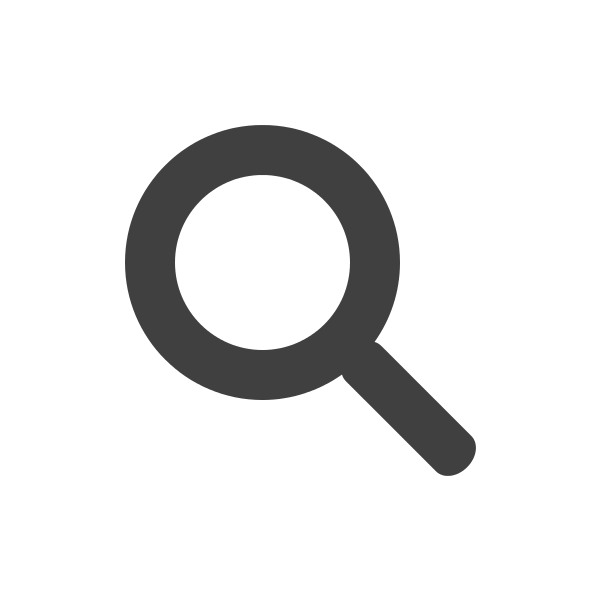
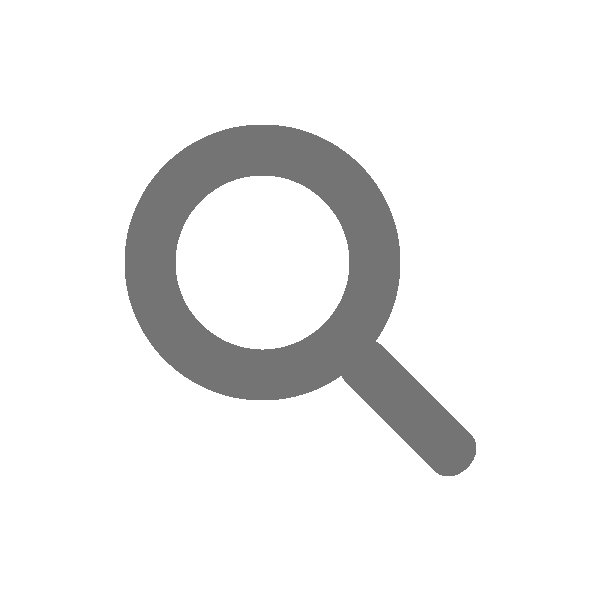
black style

Changed region(s): [[0.21, 0.21, 0.81, 0.81]]

diff --git a/front-end/src/components/templates/Header.js b/front-end/src/components/templates/Header.js
@@ -6,7 +6,7 @@ import Navbar       from 'react-bootstrap/Navbar';
 import { logout } from '../services/requestManager';
 
 /* Style */
-import '../style/menu.css';
+import './Header.css';
 
 export default function Profile() {
     const [enableMenu, setEnableMenu] = useState('');
@@ -22,17 +22,17 @@ export default function Profile() {
 
     return (
         <div style={{paddingLeft: "0px", paddingRight: "0px"}}> 
-            <Navbar sticky="top" style={{backgroundColor: "#999", display: "flex", flexDirection: "row", justifyContent: "space-between"}}>
+            <Navbar sticky="top" style={{backgroundColor: "#272727", display: "flex", flexDirection: "row", justifyContent: "space-between"}}>
                 
                 <div id="menu-div">
-                    <img onClick={handleClick} width="32" src="./images/toggle-button.jpg"/>
+                    <img onClick={handleClick} width="25" src="./images/toggle-button.png" alt="toggle" style={{marginLeft: "7px"}}/>
                         
                     <div style={{display: enableMenu}} className="menu">
                         
                         <a href="/">
                             <div className="menuCell">
                                 <div className="content">
-                                    <img width="24" src="./images/home.png" />
+                                    <img width="24" src="./images/home-white.png" />
                                     <p>Accueil</p>                                  
                                 </div>
                             </div>
@@ -40,7 +40,7 @@ export default function Profile() {
                         <a href="/profile">
                             <div className="menuCell">
                                 <div className="content">
-                                    <img width="24" src="./images/default_avatar.png"/>
+                                    <img width="24" src="./images/default_avatar-white.png"/>
                                     <p>Profile</p>                                  
                                 </div>
                             </div>
@@ -48,7 +48,7 @@ export default function Profile() {
                         <a href="/settings">
                             <div className="menuCell">
                                 <div className="content">
-                                    <img width="24" src="./images/settings.png"/>
+                                    <img width="24" src="./images/settings-white.png"/>
                                     <p>Parametres</p>                                  
                                 </div>
                             </div>
@@ -56,13 +56,13 @@ export default function Profile() {
                         <a href="/login" onClick={logout}>
                             <div className="menuCell">
                                 <div className="content">
-                                    <img width="24" src="./images/logout.png"/>
+                                    <img width="24" src="./images/logout-white.png"/>
                                     <p>Logout</p>                                  
                                 </div>
                             </div>
                         </a>
                     </div>
-                    <Navbar.Brand href="/" className="brand">Hypertube</Navbar.Brand>        
+                    <a href="/" className="brand" style={{marginLeft: "25px", marginTop: "5px"}}>Hypertube</a>        
                 </div>
 
                 <form className="form-search" >
@@ -71,7 +71,7 @@ export default function Profile() {
                 </form>
                 
                 <div>
-                    <img style={{textAlign: "right"}} width="32" src="./images/default_avatar.png" />
+                    <img style={{textAlign: "right"}} width="32" src="./images/default_avatar-white.png" />
                 </div>
 
             </Navbar>

diff --git a/front-end/src/components/templates/Header.css b/front-end/src/components/templates/Header.css
@@ -1,6 +1,6 @@
 .menu {
     position: absolute;
-    top: 55.60px;
+    top: 50px;
     left: 0;
     height: 100vh;
     width: 72px;
@@ -19,13 +19,17 @@
     background-color: #272727;
 }
 
+.menuCell p {
+    color: white;
+}
+
 .content {
     margin: 0;
     position: relative;
     top: 25%;
 }
 
-.navbar-brand {
+.brand {
     color: white;
     text-decoration: none;
 }
@@ -47,7 +51,7 @@
 }
 
 .form-search {
-    width: 50%;
+    width: 33%;
     display: flex;
     align-items: center;
 }
@@ -57,10 +61,14 @@
     height: 34px;
     padding: 2px 8px;
     border: 1px solid black;
+    background-color: #111111;
+    color: white;
 }
 
 .button-search {
     width: 65px;
     height: 34px;
     padding: 1px 7px;
+    background-color: #393939;
+    border: none;
 }

diff --git a/front-end/src/components/style/Settings.css b/front-end/src/components/style/Settings.css
@@ -5,3 +5,7 @@
     margin: 1px;
     border: 1px solid black;
 }
+
+.menu-settings p {
+    color: white;
+}
